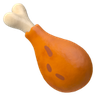
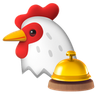
Icônes des secteurs au comptoir et de la rôtisserie : icône du libre-service avec la sonnette (variante B)
Claude-Session: https://claude.ai/code/session_01KFaY6PJWm9LRitQA9aQjkj

diff --git a/lib/composants/pictogramme.dart b/lib/composants/pictogramme.dart
@@ -3,6 +3,7 @@ import 'package:flutter/material.dart';
 import '../donnees/images_choisies.dart';
 import '../donnees/images_perso.dart';
 import '../donnees/pictos.dart';
+import '../donnees/pictos_composes.dart';
 import '../donnees/pictos_emoji.dart';
 import '../donnees/pictos_fluent.dart';
 import 'icone.dart';
@@ -76,7 +77,11 @@ String nomImage(String cle) => imagesPerso[cle]?.texte ?? cle.split('--').last.r
 List<String> get pictosPerso => imagesPerso.keys.toList()..sort((a, b) => nomImage(a).toLowerCase().compareTo(nomImage(b).toLowerCase()));
 
 bool _dispo(String c) =>
-    pictosDisponibles.contains(c) || pictosEmoji.contains(c) || pictosFluent.contains(c) || imagesPerso.containsKey(c);
+    pictosDisponibles.contains(c) ||
+    pictosEmoji.contains(c) ||
+    pictosComposes.contains(c) ||
+    pictosFluent.contains(c) ||
+    imagesPerso.containsKey(c);
 
 String? cleRayon(String nom) {
   final s = _slug(nom);
@@ -93,6 +98,7 @@ String? cleSecteur(String rayon, String nom) {
   final choisie = imagesChoisies['${_slug(rayon)}--$s'];
   if (choisie != null && _dispo(choisie)) return choisie;
   final r = cleRayon(rayon) ?? _slug(rayon);
+  if (pictosComposes.contains('$r--$s')) return '$r--$s';
   if (pictosDisponibles.contains('$r--$s')) return '$r--$s';
   for (final c in pictosDisponibles) {
     if (c.endsWith('--$s')) return c;
@@ -128,7 +134,7 @@ class Pictogramme extends StatelessWidget {
       : Image.asset(
           cle!.startsWith('fluent--')
               ? 'assets/pictos/fluent3d/${cle!.substring(8)}.webp'
-              : pictosEmoji.contains(cle)
+              : pictosEmoji.contains(cle) || pictosComposes.contains(cle)
                   ? 'assets/pictos/noto3d/$cle.png'
                   : 'assets/pictos/png/$cle.png',
           width: taille, height: taille, filterQuality: FilterQuality.medium, excludeFromSemantics: true);
@@ -257,7 +263,7 @@ EtatIcone etatIconeSecteur(String rayon, String nom, Map<String, String> images)
 /// alphabétique du nom (la même chose en Noto 3D et en Fluent 3D côte à côte).
 List<String> get toutesLesImages {
   String nom(String c) => clePerso(nomImage(c)).substring(7);
-  return {...pictosEmoji, ...pictosDisponibles, ...pictosFluent, ...imagesPerso.keys}.toList()
+  return {...pictosEmoji, ...pictosComposes, ...pictosDisponibles, ...pictosFluent, ...imagesPerso.keys}.toList()
     ..sort((a, b) => nom(a) != nom(b) ? nom(a).compareTo(nom(b)) : a.compareTo(b));
 }
 

diff --git a/test/journal_catalogue_test.dart b/test/journal_catalogue_test.dart
@@ -97,4 +97,11 @@ void main() {
     b.retirerImagePerso(nouvelle);
     expect(b.images.containsKey('frais'), isFalse);
   });
+
+  test('secteurs au comptoir : icône composée (libre-service + sonnette)', () {
+    expect(cleSecteur('Fromagerie', 'Fromages au comptoir'), 'fromagerie--fromages-au-comptoir');
+    expect(cleSecteur('Boucherie', 'Viandes et volailles au comptoir'), 'boucherie--viandes-et-volailles-au-comptoir');
+    expect(cleSecteur('Volaille', 'Rôtisserie'), 'volaille--rotisserie');
+    expect(etatIconeSecteur('Traiteur', 'Traiteur au comptoir', const {}), EtatIcone.exacte);
+  });
 }

diff --git a/lib/donnees/pictos_composes.dart b/lib/donnees/pictos_composes.dart
@@ -1,0 +1,11 @@
+// Fichier produit par outils/icones_comptoir.py : ne pas modifier à la main.
+// Secteurs au comptoir : icône du libre-service + sonnette (assets/pictos/noto3d/<clé>.png).
+
+const pictosComposes = <String>{
+  'boucherie--viandes-et-volailles-au-comptoir',
+  'poissonnerie--poissonnerie-au-comptoir',
+  'fromagerie--fromages-au-comptoir',
+  'charcuterie--charcuterie-au-comptoir',
+  'traiteur--traiteur-au-comptoir',
+  'volaille--rotisserie',
+};

diff --git a/lib/donnees/pictos_emoji.dart b/lib/donnees/pictos_emoji.dart
@@ -127,7 +127,6 @@ const pictosEmoji = <String>{
   'viennoiserie-et-patisserie--patisserie',
   'viennoiserie-et-patisserie--viennoiserie',
   'volaille',
-  'volaille--rotisserie',
   'volaille--volaille-libre-service',
   'reserve--ampoule',
   'reserve--baguette',

diff --git a/outils/icones_comptoir.py b/outils/icones_comptoir.py
@@ -1,0 +1,35 @@
+"""Icônes composées des secteurs au comptoir (08/11/2026, Aristide, variante B) : l'icône du secteur libre-service
+réduite à 86 % en haut à gauche, et la sonnette de comptoir (🛎) à 52 % en bas à droite, en Noto 3D.
+Écrit assets/pictos/noto3d/<clé>.png (96 px) et lib/donnees/pictos_composes.dart.
+Usage : python3 outils/icones_comptoir.py <noto-emoji>/3D/png/128
+"""
+import sys
+from PIL import Image
+
+noto = sys.argv[1]
+SONNETTE = '1f6ce'
+# clé du secteur au comptoir → emoji de son secteur libre-service
+COMPOSES = {
+    'boucherie--viandes-et-volailles-au-comptoir': '1f969',  # 🥩 Boucherie libre-service
+    'poissonnerie--poissonnerie-au-comptoir': '1f364',       # 🍤 Poissonnerie libre-service
+    'fromagerie--fromages-au-comptoir': '1f9c0',             # 🧀 Fromages libre-service
+    'charcuterie--charcuterie-au-comptoir': '1f953',         # 🥓 Charcuterie libre-service
+    'traiteur--traiteur-au-comptoir': '1f96a',               # 🥪 Traiteur frais
+    'volaille--rotisserie': '1f414',                         # 🐔 Volaille libre-service
+}
+
+def image(code, cote):
+    return Image.open(f'{noto}/emoji_u{code}.png').convert('RGBA').resize((cote, cote), Image.LANCZOS)
+
+for cle, code in COMPOSES.items():
+    c = Image.new('RGBA', (256, 256), (0, 0, 0, 0))
+    c.alpha_composite(image(code, int(256 * 0.86)), (0, 0))
+    s = int(256 * 0.52)
+    c.alpha_composite(image(SONNETTE, s), (256 - s, 256 - s))
+    c.resize((96, 96), Image.LANCZOS).save(f'assets/pictos/noto3d/{cle}.png', optimize=True)
+
+with open('lib/donnees/pictos_composes.dart', 'w') as f:
+    f.write('// Fichier produit par outils/icones_comptoir.py : ne pas modifier à la main.\n'
+            '// Secteurs au comptoir : icône du libre-service + sonnette (assets/pictos/noto3d/<clé>.png).\n\n'
+            'const pictosComposes = <String>{\n' + ''.join(f"  '{c}',\n" for c in COMPOSES) + '};\n')
+print(len(COMPOSES), 'icônes composées')
